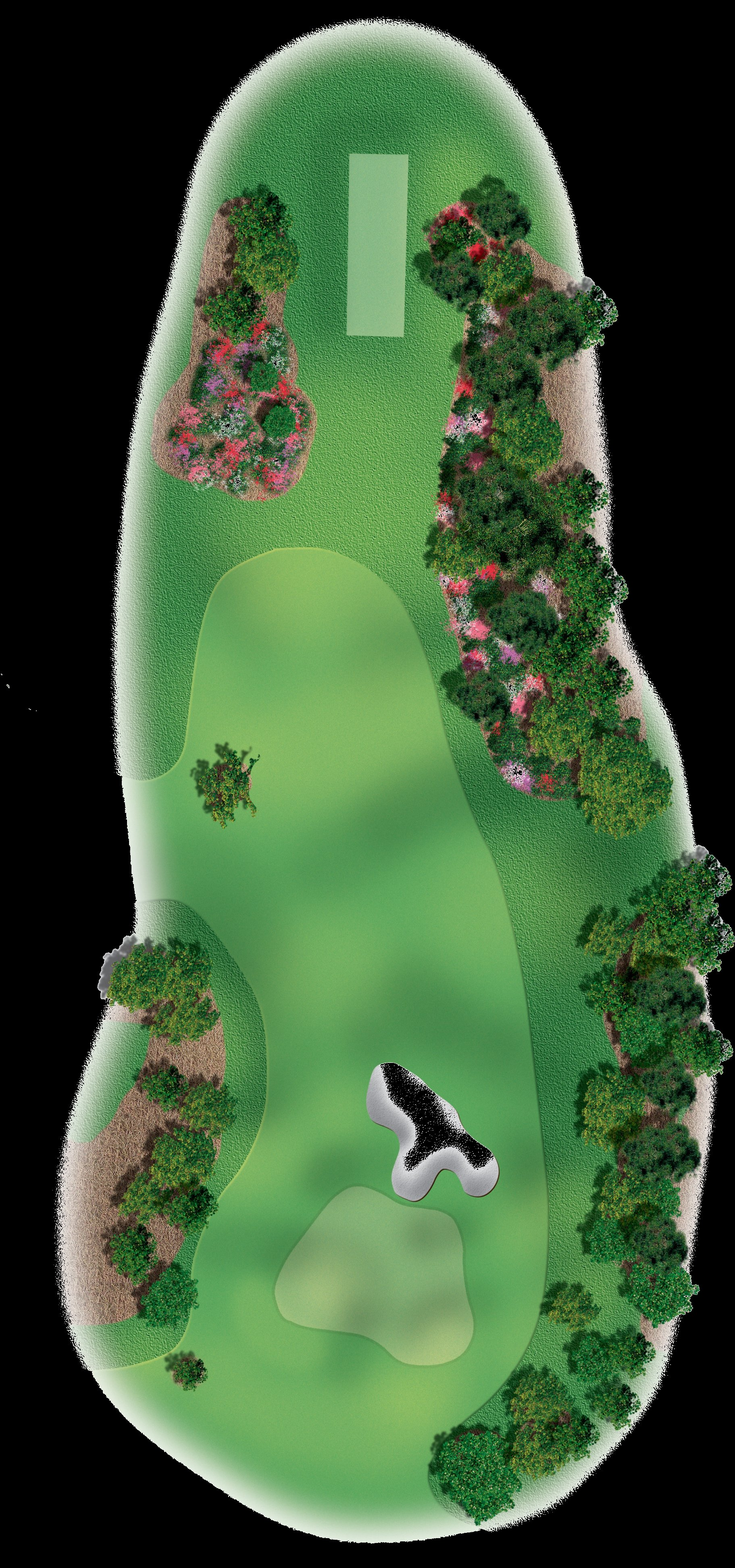
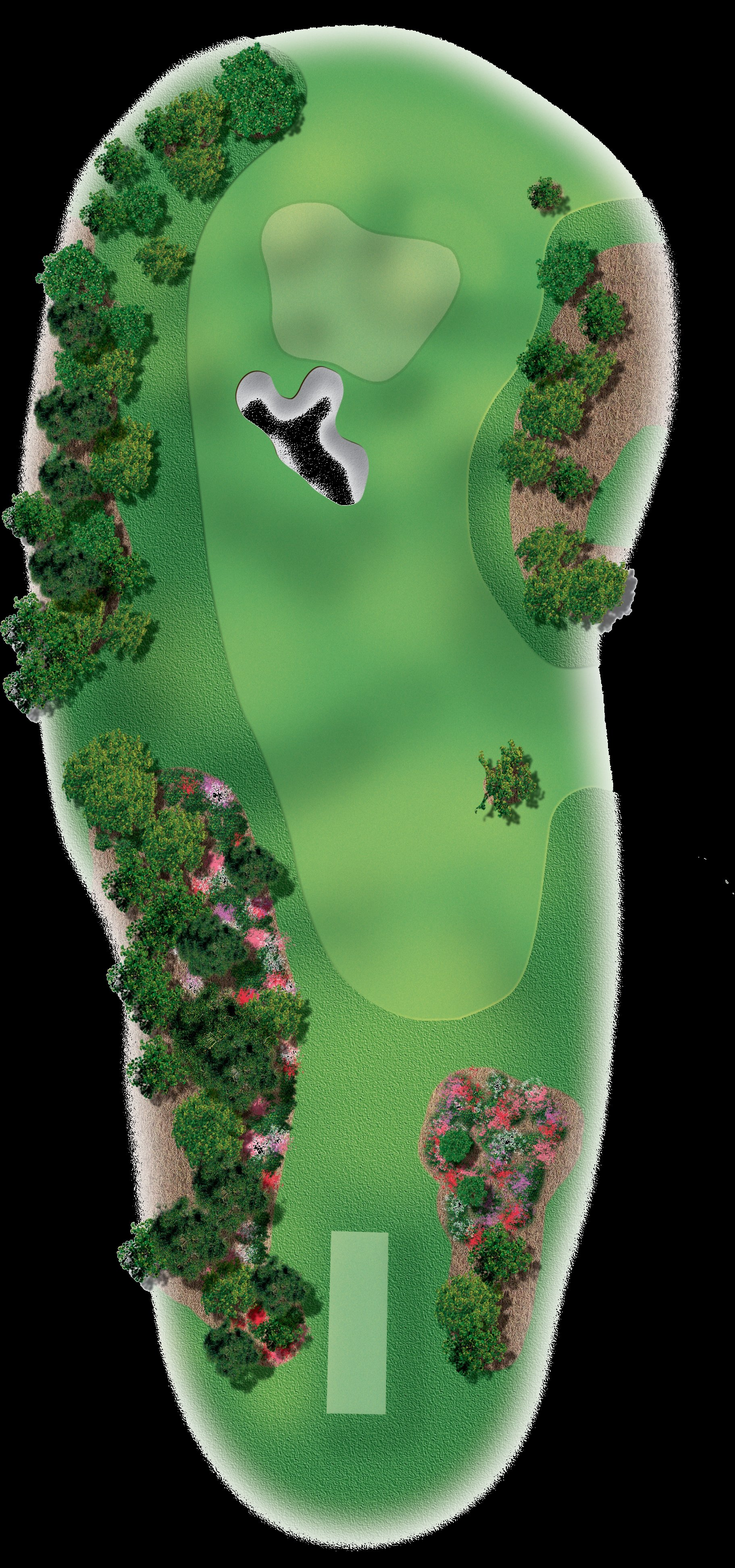
Fix Augusta hole fit, bunker colour, and holes 6/7/13 orientation
- Move tee/green SVG fracs inward (0.85/0.20) so flag and ball clear
  the viewBox slice clip on all screen sizes
- Flip holes 6, 7, 13 images 180° (was rotate(-90), now rotate(90))
  so tee is at the bottom and green at the top
- Reduce dark scrim from 0.18 to 0.05 so sandy bunkers show correctly
- Recalibrate hole 6, 7, 13 AUGUSTA_POSITIONS for new orientation

diff --git a/components/FootballGolf.tsx b/components/FootballGolf.tsx
@@ -475,26 +475,26 @@ const AUGUSTA_HAZARDS: Record<number, { hazards?: {start:number;end:number}[]; b
 
 // Tee/green positions as [xFrac, yFrac] in portrait images (tee-bottom, green-top).
 // Images were rotated from landscape: CCW for tee-left holes, CW for holes 6, 7, 13.
-// CCW transform: new = (old_fy, 1-old_fx). CW transform: new = (1-old_fy, old_fx).
+// y-fracs kept inward (0.20–0.85) so flag/ball clear the SVG slice clip on all screen sizes.
 const AUGUSTA_POSITIONS: Record<number, {teeFrac:[number,number]; greenFrac:[number,number]; waypointFracs?:[number,number][]}> = {
-  1:  {teeFrac:[0.55,0.92], greenFrac:[0.18,0.12], waypointFracs:[[0.42,0.55]]},
-  2:  {teeFrac:[0.43,0.94], greenFrac:[0.39,0.10], waypointFracs:[[0.43,0.50]]},
-  3:  {teeFrac:[0.50,0.93], greenFrac:[0.36,0.13], waypointFracs:[[0.48,0.55]]},
-  4:  {teeFrac:[0.36,0.93], greenFrac:[0.40,0.13]},
-  5:  {teeFrac:[0.46,0.93], greenFrac:[0.34,0.12], waypointFracs:[[0.43,0.52]]},
-  6:  {teeFrac:[0.55,0.87], greenFrac:[0.75,0.11]},
-  7:  {teeFrac:[0.45,0.88], greenFrac:[0.78,0.11], waypointFracs:[[0.58,0.53]]},
-  8:  {teeFrac:[0.50,0.93], greenFrac:[0.33,0.12], waypointFracs:[[0.47,0.60],[0.38,0.32]]},
-  9:  {teeFrac:[0.50,0.93], greenFrac:[0.27,0.12], waypointFracs:[[0.46,0.52]]},
-  10: {teeFrac:[0.44,0.93], greenFrac:[0.55,0.12], waypointFracs:[[0.42,0.56]]},
-  11: {teeFrac:[0.43,0.93], greenFrac:[0.38,0.12], waypointFracs:[[0.42,0.55]]},
-  12: {teeFrac:[0.55,0.93], greenFrac:[0.47,0.12]},
-  13: {teeFrac:[0.35,0.88], greenFrac:[0.74,0.12], waypointFracs:[[0.30,0.58],[0.52,0.22]]},
-  14: {teeFrac:[0.50,0.93], greenFrac:[0.45,0.12], waypointFracs:[[0.47,0.53]]},
-  15: {teeFrac:[0.47,0.93], greenFrac:[0.33,0.12], waypointFracs:[[0.46,0.60],[0.40,0.32]]},
-  16: {teeFrac:[0.48,0.93], greenFrac:[0.42,0.12]},
-  17: {teeFrac:[0.50,0.93], greenFrac:[0.38,0.12], waypointFracs:[[0.46,0.53]]},
-  18: {teeFrac:[0.48,0.93], greenFrac:[0.40,0.12], waypointFracs:[[0.44,0.55]]},
+  1:  {teeFrac:[0.55,0.85], greenFrac:[0.18,0.20], waypointFracs:[[0.42,0.55]]},
+  2:  {teeFrac:[0.43,0.85], greenFrac:[0.39,0.20], waypointFracs:[[0.43,0.50]]},
+  3:  {teeFrac:[0.50,0.85], greenFrac:[0.36,0.20], waypointFracs:[[0.48,0.55]]},
+  4:  {teeFrac:[0.36,0.85], greenFrac:[0.40,0.20]},
+  5:  {teeFrac:[0.46,0.85], greenFrac:[0.34,0.20], waypointFracs:[[0.43,0.52]]},
+  6:  {teeFrac:[0.45,0.85], greenFrac:[0.25,0.20]},
+  7:  {teeFrac:[0.55,0.85], greenFrac:[0.22,0.20], waypointFracs:[[0.42,0.47]]},
+  8:  {teeFrac:[0.50,0.85], greenFrac:[0.33,0.20], waypointFracs:[[0.47,0.60],[0.38,0.32]]},
+  9:  {teeFrac:[0.50,0.85], greenFrac:[0.27,0.20], waypointFracs:[[0.46,0.52]]},
+  10: {teeFrac:[0.44,0.85], greenFrac:[0.55,0.20], waypointFracs:[[0.42,0.56]]},
+  11: {teeFrac:[0.43,0.85], greenFrac:[0.38,0.20], waypointFracs:[[0.42,0.55]]},
+  12: {teeFrac:[0.55,0.85], greenFrac:[0.47,0.20]},
+  13: {teeFrac:[0.65,0.85], greenFrac:[0.26,0.20], waypointFracs:[[0.45,0.55]]},
+  14: {teeFrac:[0.50,0.85], greenFrac:[0.45,0.20], waypointFracs:[[0.47,0.53]]},
+  15: {teeFrac:[0.47,0.85], greenFrac:[0.33,0.20], waypointFracs:[[0.46,0.60],[0.40,0.32]]},
+  16: {teeFrac:[0.48,0.85], greenFrac:[0.42,0.20]},
+  17: {teeFrac:[0.50,0.85], greenFrac:[0.38,0.20], waypointFracs:[[0.46,0.53]]},
+  18: {teeFrac:[0.48,0.85], greenFrac:[0.40,0.20], waypointFracs:[[0.44,0.55]]},
 }
 
 // Manually calibrated hazards/bunkers for real course mode (yards from tee, Blue distances)
@@ -2191,8 +2191,8 @@ function CourseView({hole,displayBallPos,preAnimBallPos,arcOffset,isAnimating,st
           ...(rot ? {transform:`rotate(${rot}deg)`} : {}),
         }}/>
       )}
-      {/* Slight dark scrim so labels stay readable */}
-      {imageUrl && <div style={{position:'absolute',inset:0,background:'rgba(0,0,0,0.18)',pointerEvents:'none'}}/>}
+      {/* Minimal scrim — just enough to keep labels readable without darkening bunkers */}
+      {imageUrl && <div style={{position:'absolute',inset:0,background:'rgba(0,0,0,0.05)',pointerEvents:'none'}}/>}
 
       <svg width="100%" viewBox={imageUrl ? "0 0 100 260" : "0 -10 100 165"} preserveAspectRatio="xMidYMid slice" style={{display:'block',flex:1,position:'relative'}}>
         <defs>
